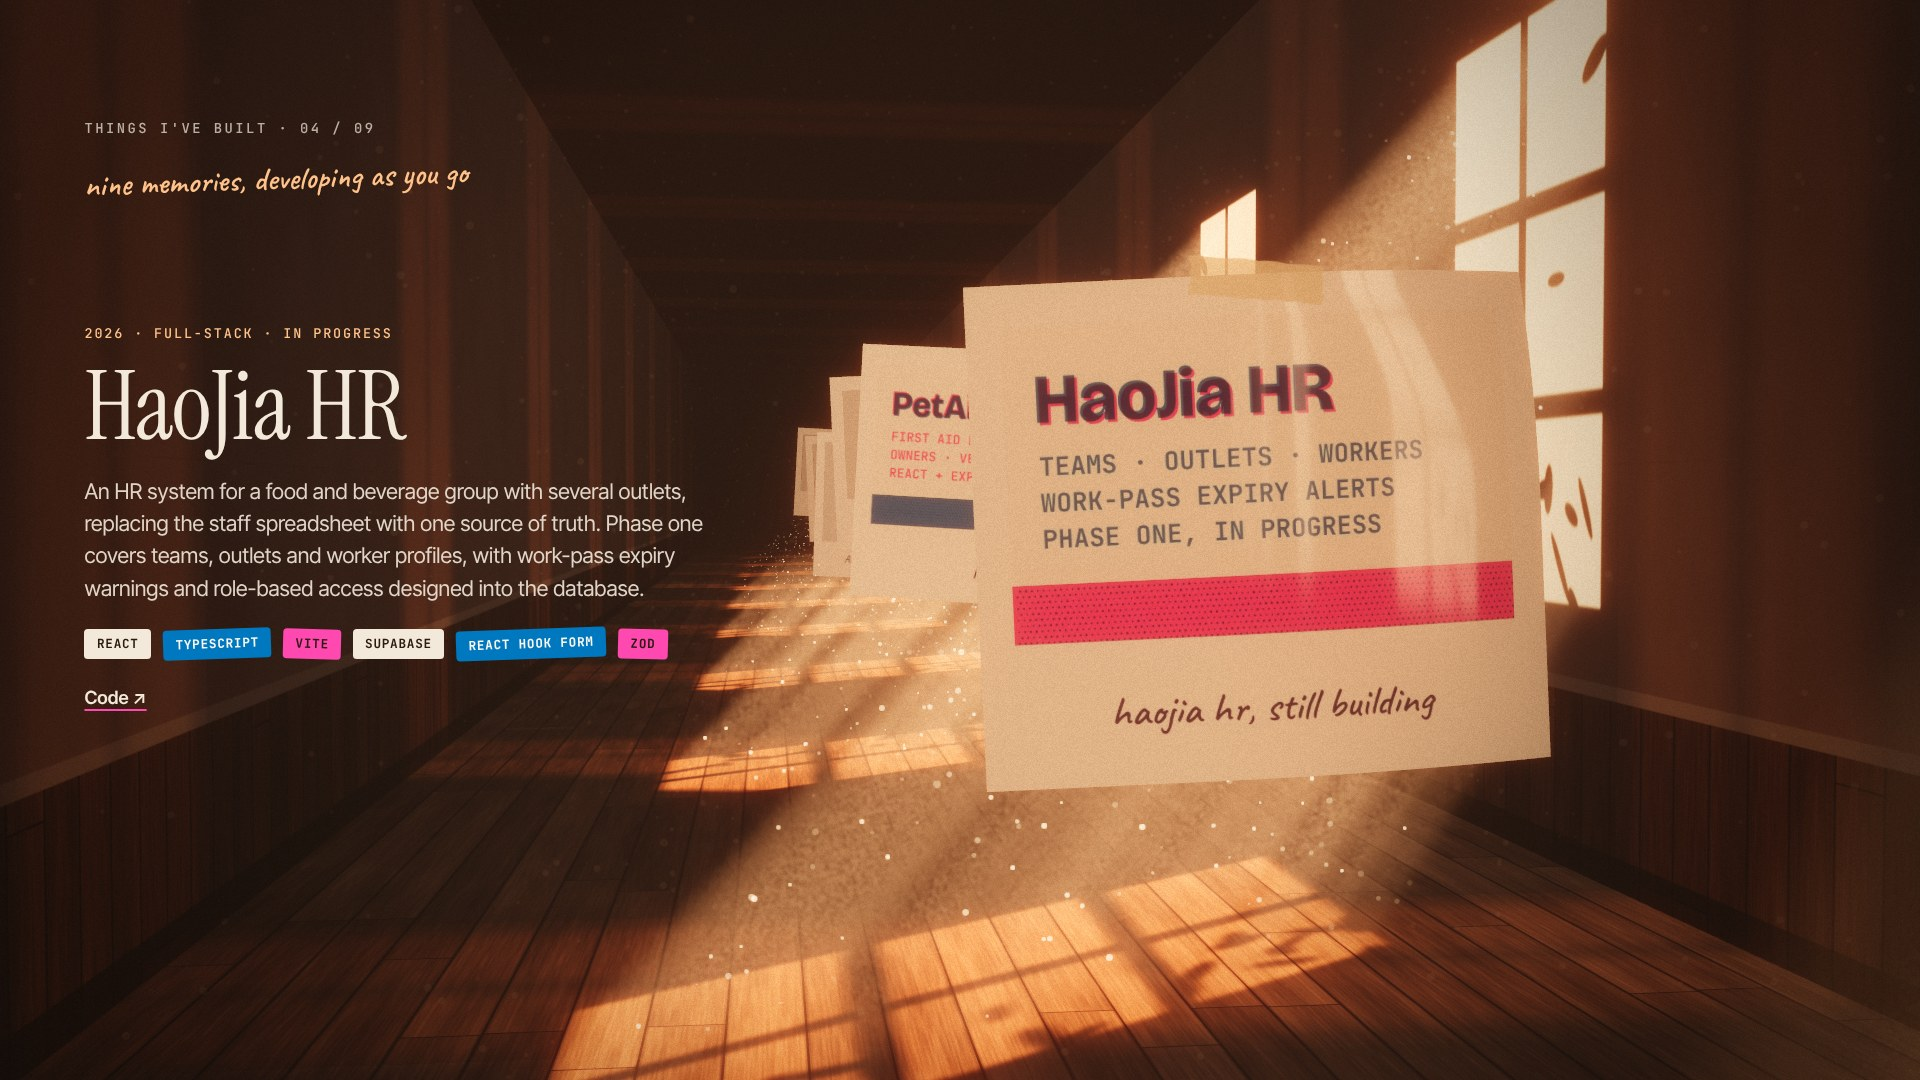
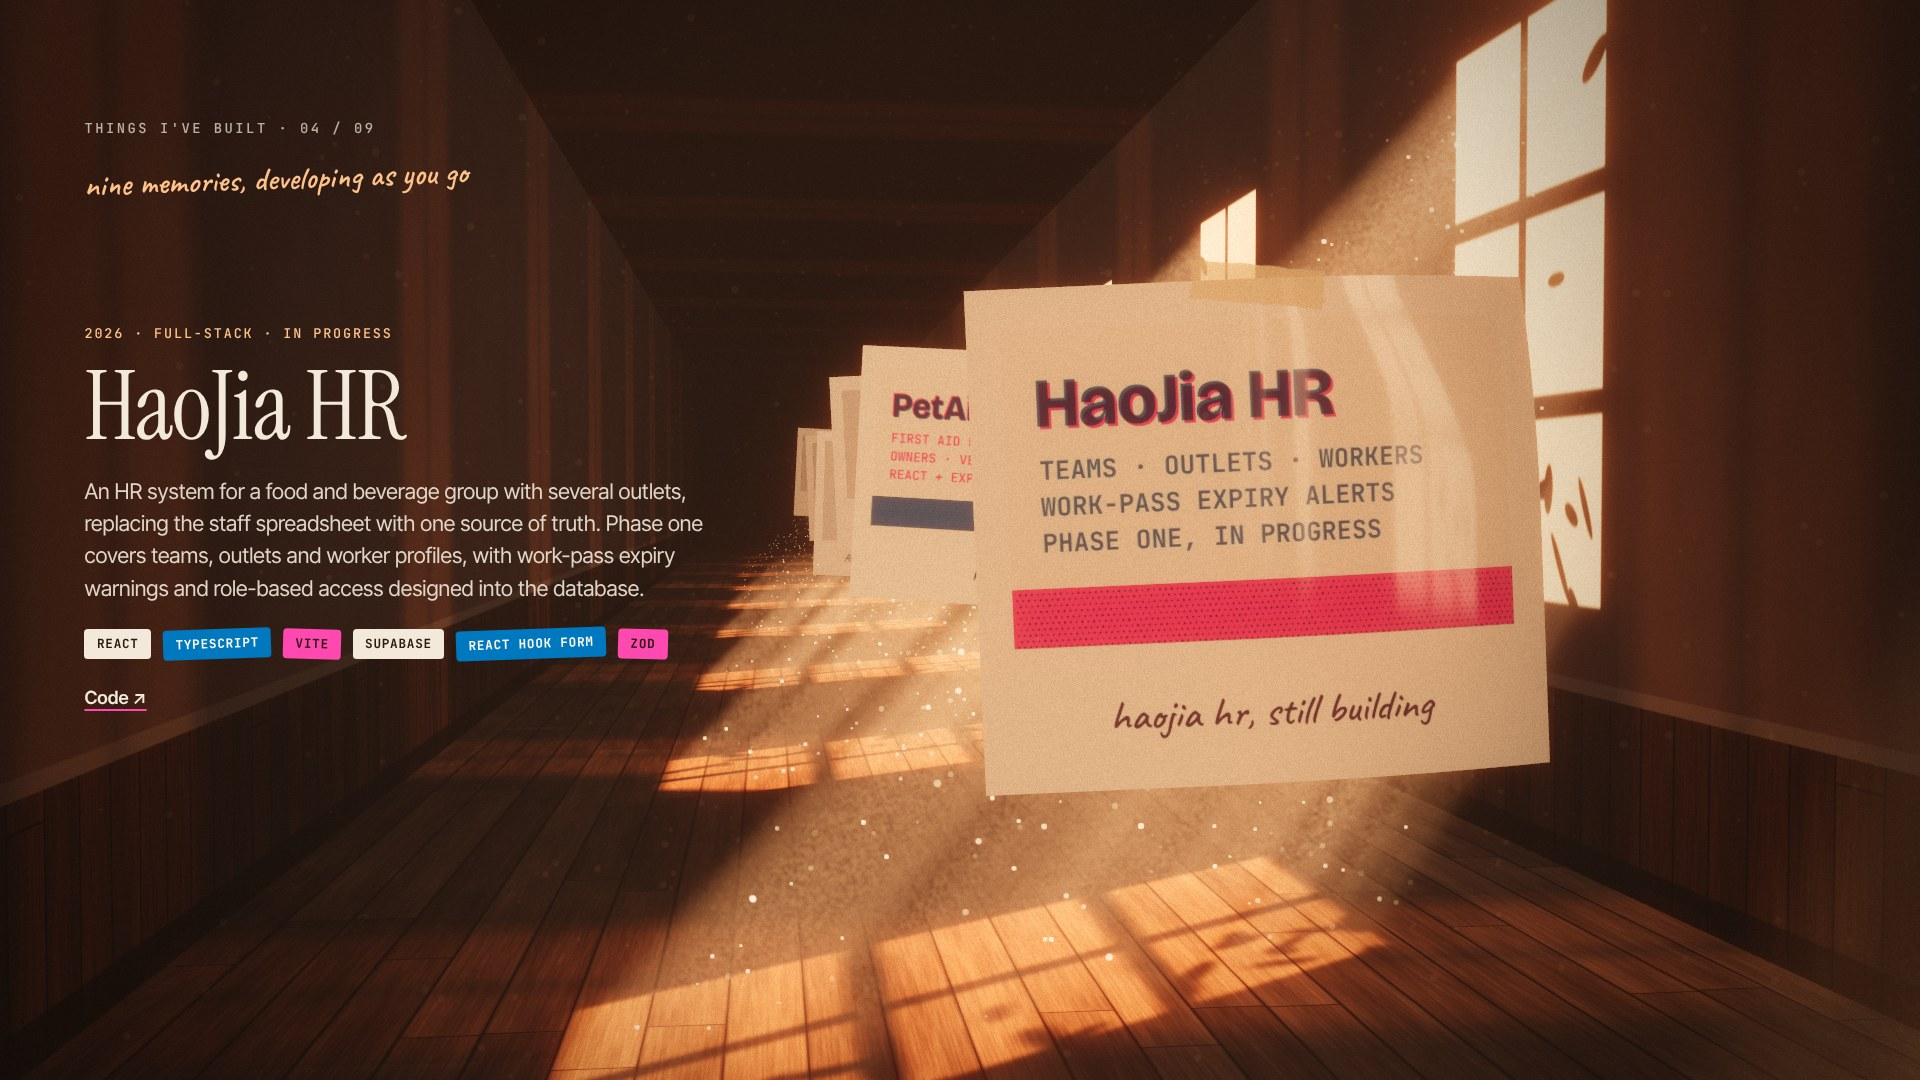
To-room stopped by the two-rounds rule; burn tune queued for smoothing
Claude-Session: https://claude.ai/code/session_016nJieuj3hz1PRLzcMUTyK7

diff --git a/site/css/scrapbook.css b/site/css/scrapbook.css
@@ -3,11 +3,13 @@
 .sec-scrapbook .title { font-size: 5.4vw; }
 .role { margin-top: 2.2vw; max-width: 34vw; }
 .role h3 { font: 400 2.5vw/1 var(--serif); }
-.role .meta { font-size: max(11px, 0.68vw); line-height: 1.5; letter-spacing: 0.12em; color: var(--blue); margin: 0.6vw 0; }
+.role .meta { font-size: max(11px, 0.68vw); line-height: 1.5; letter-spacing: 0.12em; color: var(--blue); margin: 0.6vw 0; text-wrap: balance; }
 .role p:not(.meta) { font: 400 max(15px, 1.05vw)/1.5 var(--sans); }
 .skills { margin-top: 2.4vw; max-width: 36vw; }
 .skills .kicker { margin-bottom: 0.8vw; }
-.skills dl { display: grid; grid-template-columns: auto 1fr; gap: 0.45vw 1.2vw; }
+.skills dl { display: grid; grid-template-columns: auto 1fr; gap: 0.45vw 1.2vw; align-items: baseline; }
 .skills dl div { display: contents; }
-.skills dt { font: 700 max(10px, 0.68vw)/1.6 var(--mono); letter-spacing: 0.12em; text-transform: uppercase; color: var(--pink); }
+.skills dt { font: 700 max(10px, 0.68vw)/1.6 var(--mono); letter-spacing: 0.12em; text-transform: uppercase; color: var(--ink); }
+/* Riso pink can't hold 4.5:1 on the lit wall, so the label is ink and the pink is a marker swipe, as on .lead strong. */
+.skills dt { justify-self: start; box-shadow: inset 0 -0.5em 0 rgba(255, 72, 176, 0.42); }
 .skills dd { font: 400 max(14px, 1vw)/1.5 var(--sans); }

diff --git a/site/index.html b/site/index.html
@@ -147,7 +147,7 @@
       </div>
       <div class="role" data-reveal="scrap-facilitator">
         <h3>Facilitator</h3>
-        <p class="meta mono">SSDC Dodgeball Outreach Programme · 11 April 2026 · Tunku Putra-HELP School</p>
+        <p class="meta mono">SSDC Dodgeball Outreach Programme · 11&nbsp;April&nbsp;2026 · Tunku Putra-HELP School</p>
       </div>
       <div class="skills" data-reveal="scrap-skills">
         <p class="kicker mono">Toolbox</p>

diff --git a/workbench/brief.md b/workbench/brief.md
@@ -79,3 +79,4 @@ Raw three.js, vendored, importmap, no build. One smooth scroll value drives DOM 
 - Type: display headlines use straight apostrophes ("Hi, I'm", "Let's"); use curly ones. Big gap in about between intro paragraph and degree meta.
 - Phone spex: the SPEX project card overlaps the polaroid caption "SPEX: catch it…" (phone element).
 - Projects copy: SPEX title and body look grey/low-contrast against the dark room (type/look).
+- To-room burn (priority): r5 over-burns the peak (6.314) into a flat orange-white gradient. Tune `sink` to ~0.7 and the room `shine` key to ~(0.6, 0.85) so wall shapes or the room window read at 30-40% contrast; keep no double exposure. Ghost ring sits alone in the lower right; put it on the flare line. Room text block pops in at 6.64-6.74.
